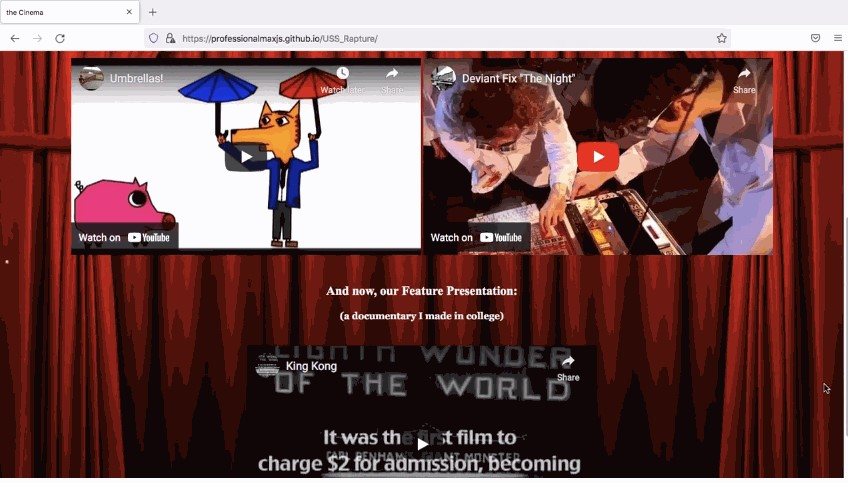
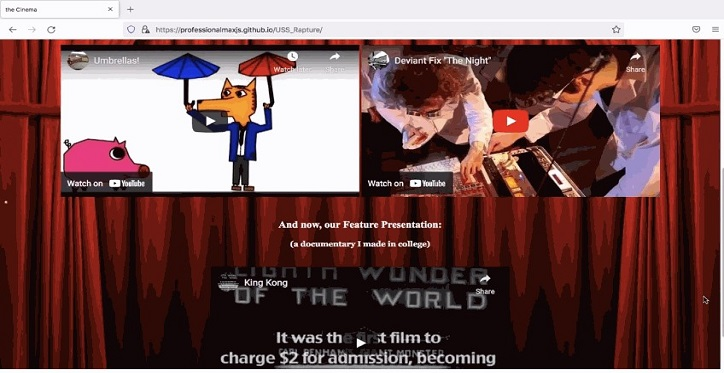
web experrience section deployable

diff --git a/src/WebExperience.js b/src/WebExperience.js
@@ -3,65 +3,81 @@ import dtdj from './gifs/DeathToDadJokes.gif'
 import dtdjStill from './gifs/dtdjStill.jpg'
 import chakra from './gifs/ChakraCafe.gif'
 import chakraStill from './gifs/ChakraCafeStill.jpg'
-// import reciPlenty from './gifs/ReciPlenty.gif'
+import reciPlenty from './gifs/ReciPlenty.gif'
 import reciPlentyStill from './gifs/ReciPlentyStill.jpg'
 import cinema from './gifs/USSRapture.gif'
 import cinemaStill from './gifs/CinemaStill.jpg'
 
 function WebExperience(){
 
-  // const [playingReciPlenty, setPlayingReciPlenty] = useState(false)
+  const [playingReciPlenty, setPlayingReciPlenty] = useState(false)
   const [playingDTDJ, setPlayingDTDJ] = useState(false)
   const [playingChakra, setPlayingChakra] = useState(false)
   const [playingCinema, setPlayingCinema] = useState(false)
   
     return(
         <>
-        <h2 style={{textAlign:"center"}} >My Projects</h2>
-        <div style={{display:"flex"}} >
+        <h2 id="myProjects" >My Projects</h2>
+
+        <div className="projectBox" >
         <div style={{display:"flex", flexDirection:"column"}} className="blue">
-        <div >ReciPlenty</div>
+        <h3 >ReciPlenty</h3 >
         <a href="https://youtu.be/Mw1BVkK5coM" target="_blank" rel="noreferrer noopener">
-      <img /*onMouseOver={()=>setPlayingReciPlenty(true)} onMouseLeave={()=>setPlayingReciPlenty(false)} src={playingReciPlenty ? reciPlenty : */src={reciPlentyStill} alt="ReciPlenty demo" />
+      <img onMouseOver={()=>setPlayingReciPlenty(true)} onMouseLeave={()=>setPlayingReciPlenty(false)} src={playingReciPlenty ? reciPlenty : reciPlentyStill} alt="ReciPlenty demo" />
       </a>
-      <p>Capstone project for FlatIron School Software Engineering course. Utilizes Ruby bcrypt gem, Rails Active Storage technology, Spoonacular API (+2 others), to bring users a straightforward way to log their favorite recipes. Recipes developed by the user can be written on a "worksheet"-like screen (where users can also upload photos for their dishes), and  saved onto their list. Recipes discovered through the Search bar can also be saved to the same master list. All saved recipes include a toggle for the user to track whether or not they have cooked that dish, as well as the ability to be edited.<br/>Last updated February, 2022.
-      <a className="white" href="https://github.com/ProfessionalMaxJS/ReciPlenty" target="_blank" rel="noreferrer noopener">  Git Repo.</a>
-      <span className="white" onClick={()=>window.open("https://reciplenty.herokuapp.com/")}>  App.</span>
-      </p></div></div>
+      <div style={{display:"flex", textAlign:"center"}}> Last updated February, 2022.&nbsp;
+      <a className="white" href="https://github.com/ProfessionalMaxJS/ReciPlenty" target="_blank" rel="noreferrer noopener">Git Repo.&nbsp;</a>
+      <a className="white" href="https://reciplenty.herokuapp.com/" target="_blank" rel="noreferrer noopener" >App.</a>
+      </div>
+      </div>
+      <div className="textBox" >
+      Capstone project for FlatIron School Software Engineering course. Utilizes Ruby bcrypt gem, Rails Active Storage technology, Spoonacular API (+2 others), to bring users a straightforward way to log their favorite recipes. Recipes developed by the user can be written on a "worksheet"-like screen (where users can also upload photos for their dishes), and  saved onto their list. Recipes discovered through the Search bar can also be saved to the same master list. All saved recipes include a toggle for the user to track whether or not they have cooked that dish, as well as the ability to be edited.
+        </div>
+      </div>
 
-      <h3>Death to Dad Jokes </h3>
-      <div className="blue">
-      <a href="https://youtu.be/i81w1Ufl2RM" target="_blank" rel="noreferrer noopener">
-      <img onMouseOver={()=>setPlayingDTDJ(true)} onMouseLeave={()=>setPlayingDTDJ(false)} src={playingDTDJ ? dtdj : dtdjStill} alt="Death to Dad Jokes demo" />
-      </a>
-      <p>Using HTML, CSS and ("vanilla") Javascript, <a className="white" href="https://github.com/Smith-Reesie" target="_blank" rel="noreferrer noopener"> Maurice Smith</a> and I built this to allow users to cycle through "Dad" Jokes (c/o the "icanazdadjoke" API) and rate them (alongside spoooooky sound effects), keeping a running tally of liked vs disliked. Each new joke is loaded with the user's click of a rating; if (newJoke.includes("?")), then the joke is loaded with the punchline (ie, all text after "?") hidden, and a button is displayed to remind the user of their own complicity in the cringiness.<br />Completed October, 2021. 
-      <a className="white" target="_blank" rel="noreferrer noopener" href="https://github.com/ProfessionalMaxJS/DeathToDadJokes">  Git Repo.</a>
-      <a className="white" target="_blank" rel="noreferrer noopener" href="https://professionalmaxjs.github.io/DeathToDadJokes">  App.</a>
-      </p>
-    </div>
+      <div className="projectBox" >
+        <div style={{display:"flex", flexDirection:"column"}} className="blue">
+        <h3 >Death to Dad Jokes</h3 >
+        <a href="https://youtu.be/i81w1Ufl2RM" target="_blank" rel="noreferrer noopener">
+      <img onMouseOver={()=>setPlayingDTDJ(true)} onMouseLeave={()=>setPlayingDTDJ(false)} src={playingDTDJ ? dtdj : dtdjStill} alt="Death to Dad Jokes demo" />      </a>
+      <div style={{display:"flex", textAlign:"center"}}> Completed October, 2021.&nbsp;
+       <a className="white" target="_blank" rel="noreferrer noopener" href="https://github.com/ProfessionalMaxJS/DeathToDadJokes">  Git Repo.&nbsp;</a>
+      <a className="white" target="_blank" rel="noreferrer noopener" href="https://professionalmaxjs.github.io/DeathToDadJokes">  App.</a>      </div>
+      </div>
+      <div className="textBox" >
+Using HTML, CSS and ("vanilla") Javascript, <a className="white" href="https://github.com/Smith-Reesie" target="_blank" rel="noreferrer noopener"> Maurice Smith</a> and I built this to allow users to cycle through "Dad" Jokes (c/o the "icanazdadjoke" API) and rate them (alongside spoooooky sound effects), keeping a running tally of liked vs disliked. Each new joke is loaded with the user's click of a rating; if (newJoke.includes("?")), then the joke is loaded with the punchline (ie, all text after "?") hidden, and a button is displayed to remind the user of their own complicity in the cringiness.
+        </div>
+      </div>
 
-      <h3>Chakra Cafe</h3>
-      <div className="blue">
-      <a href="https://youtu.be/Q_tBBrbX8oY" target="_blank" rel="noreferrer noopener">
+      <div className="projectBox" >
+        <div style={{display:"flex", flexDirection:"column"}} className="blue">
+        <h3 >Chakra Cafe</h3 >
+        <a href="https://youtu.be/Q_tBBrbX8oY" target="_blank" rel="noreferrer noopener">
       <img onMouseOver={()=>setPlayingChakra(true)} onMouseLeave={()=>setPlayingChakra(false)} src={playingChakra ? chakra : chakraStill} alt="Chakra Cafe demo" />
       </a>
-      <p>Cafe-type mockup site built with <span className="white" onClick={()=>window.open("https://www.luisalfredoescobar.com/")}>Luis Escobar</span> to represent the menu offerings and order system from Chakra Cafe (a real, but unafilliated, restaurant in Queens, NY). Uses ruby's bcrypt gem to handle authentication/authorization for accounts. Without accounts, users can only browse the site; with accounts they can place orders after logging in. Although the front end functionality is limited to filling and purchasing from a shopping cart, backend tables are in place to track/provide users with their order history, as well as a points/rewards system (which currently only shows up as an "easter egg" in the console) - for future buildouts.<br />Completed January, 2022. 
-      <span className="white" onClick={()=>window.open("https://github.com/ProfessionalMaxJS/Project_all_in_one")}>  Git Repo.</span>
-      <span className="white" onClick={()=>window.open("https://chakra-cafe.herokuapp.com/")}>  App.</span>
-        </p>
+      <div style={{display:"flex", textAlign:"center"}}> Last Updated January, 2022.&nbsp;
+       <a className="white" target="_blank" rel="noreferrer noopener" href="https://github.com/ProfessionalMaxJS/Project_all_in_one">  Git Repo.&nbsp;</a>
+      <a className="white" target="_blank" rel="noreferrer noopener" href="https://chakra-cafe.herokuapp.com/">  App.</a>      </div>
+      </div>
+      <div className="textBox" >
+Cafe-type mockup site built with <a className="white" target="_blank" rel="noreferrer noopener" href="https://www.luisalfredoescobar.com/">Luis Escobar</a> to represent the menu offerings and order system from Chakra Cafe (a real, but unafilliated, restaurant in Queens, NY). Uses ruby's bcrypt gem to handle authentication/authorization for accounts. Without accounts, users can only browse the site; with accounts they can place orders after logging in. Although the front end functionality is limited to filling and purchasing from a shopping cart, backend tables are in place to track/provide users with their order history, as well as a points/rewards system (which currently only shows up as an "easter egg" in the console) - for future buildouts
+        </div>
       </div>
 
-      <h3>The Cinema</h3>
-      <div className="blue">
-      <a href="https://youtu.be/opGSTxjautA" target="_blank" rel="noreferrer noopener">
+      <div className="projectBox" id="bottom-bottom" >
+        <div style={{display:"flex", flexDirection:"column"}} className="blue">
+        <h3 >The Cinema</h3 >
+        <a href="https://youtu.be/opGSTxjautA" target="_blank" rel="noreferrer noopener">
       <img onMouseOver={()=>setPlayingCinema(true)} onMouseLeave={()=>setPlayingCinema(false)} src={playingCinema ? cinema : cinemaStill} alt="USS_Rapture demo" />
       </a>
-      <p>Test<br />Completed September, 2021. 
-      <span className="white" onClick={()=>window.open("https://github.com/ProfessionalMaxJS/USS_Rapture")}>  Git Repo.</span>
-      <span className="white" onClick={()=>window.open("https://professionalmaxjs.github.io/USS_Rapture/")}>  Site.</span>
-        </p>
+      <div style={{display:"flex", textAlign:"center"}}> Completed September, 2021.&nbsp;
+       <a className="white" target="_blank" rel="noreferrer noopener" href="https://github.com/ProfessionalMaxJS/USS_Rapture">  Git Repo.&nbsp;</a>
+      <a className="white" target="_blank" rel="noreferrer noopener" href="https://professionalmaxjs.github.io/USS_Rapture/">  App.</a>      </div>
       </div>
-
+      <div className="textBox" >
+        My first ever site! Made as an onboarding/pre-class requirement for the FlatIron School, I had some fun with this one. The stylistic accomplishments I'm most proud of are hilighted in the accompanying video (to the left of this text), but in the future I plan to revisit/change the user's popcorn interaction, as well as implement onScroll event listeners to darken the background image (ie, the lights going down at showtime). Details about my experiences building this website were the subject of an early blog post, linked <a style={{fontSize:"1.4rem"}} className="white" target="_blank" rel="noreferrer noopener" href="https://maxees.blogspot.com/2021/10/website-in-development.html">here</a>. The "feature presentation" of this website, a video I made in college, is linked and discussed in greater detail elsewhere in this portfolio, but also available  <a style={{fontSize:"1.4rem"}} className="white" target="_blank" rel="noreferrer noopener" href="https://youtu.be/i11FDMUffMU">here</a>.
+      </div>
+      </div>
 
         </>
     )

diff --git a/src/App.css b/src/App.css
@@ -1,5 +1,13 @@
 @import url('https://fonts.googleapis.com/css2?family=Playfair+Display:wght@400;500&family=Poppins:wght@100;500&display=swap');
 
+/* *{
+  border:1px solid red;
+}
+
+*:hover{
+  border: 1px solid blue;
+} */
+
 body {
   background-color: #282c34;
 }
@@ -21,33 +29,72 @@ body {
 }
 
 .blue{
-  font-size: 1.6rem; /*calc(21.5px + 2vmin)*/
+  font-size: 1.6rem; 
   display: flex;
   justify-content: space-evenly;
   align-items: center;
 }
 
-.blue>p{
+/* .blue>div{
   max-width: 60%;
-  margin-left: 1em;
+  margin-left: 1vw;
+} */
+
+#myProjects{
+  text-align:center; 
+  text-decoration:underline; 
+  font-weight:900; 
+  font-size:3.5rem; 
+  margin:4vh 0vw 4vh 0vw;
+  animation: sub-way 9s infinite;
 }
-h2, h3 {
+
+h3 {
   text-decoration: underline;
+  animation: sub-way 9s infinite;
   font-weight: 900;
+  margin: 1vh 0px 1vh 0px;
 }
+
+@keyframes sub-way{
+  0% { text-decoration-color: white;  }
+  33% { text-decoration-color: orange; }
+  66% { text-decoration-color: blue; }
+}
+
+.projectBox{
+  display: flex;
+  align-items: center;
+  margin-bottom: 3vw;
+}
+
+.textBox{
+  width: 70%;
+  text-align:left;
+  margin-left:2vw;
+  margin-right:1vw;
+}
+
 .blue a>img{
+  margin: 1vh 0.5vw 1vh 0.5vw;
   border: 5px solid white;
   border-radius: 5px 5px 5px 5px;
-  height: 100%;
-  width: auto;
+  width: 100%;
+  height: auto;
+  /* height: 100%;
+  width:auto; */
 }
 .blue a>img:hover{
   border: 5px solid blue;
   border-radius: 5px 5px 5px 5px;
-
 }
+
 .blue a>img:active{
   border: 5px solid orange;
+}
+
+#bottom-bottom{
+  margin-bottom: 6vw;
 }
 
 .App-header {
@@ -86,7 +133,6 @@ div.hovee{
   66% { color: blue; }
 }
 
-
 .center{
   font-size: 1.4rem;
   text-align: center;
@@ -118,10 +164,6 @@ div.hovee{
   33% { border-color: orange; }
   66% { border-color: blue; }
 }
-
-/* #webdeveloper:hover{
-  width: 45vw;
-} */
 
 /* @keyframes App-logo-spin {
   from {
